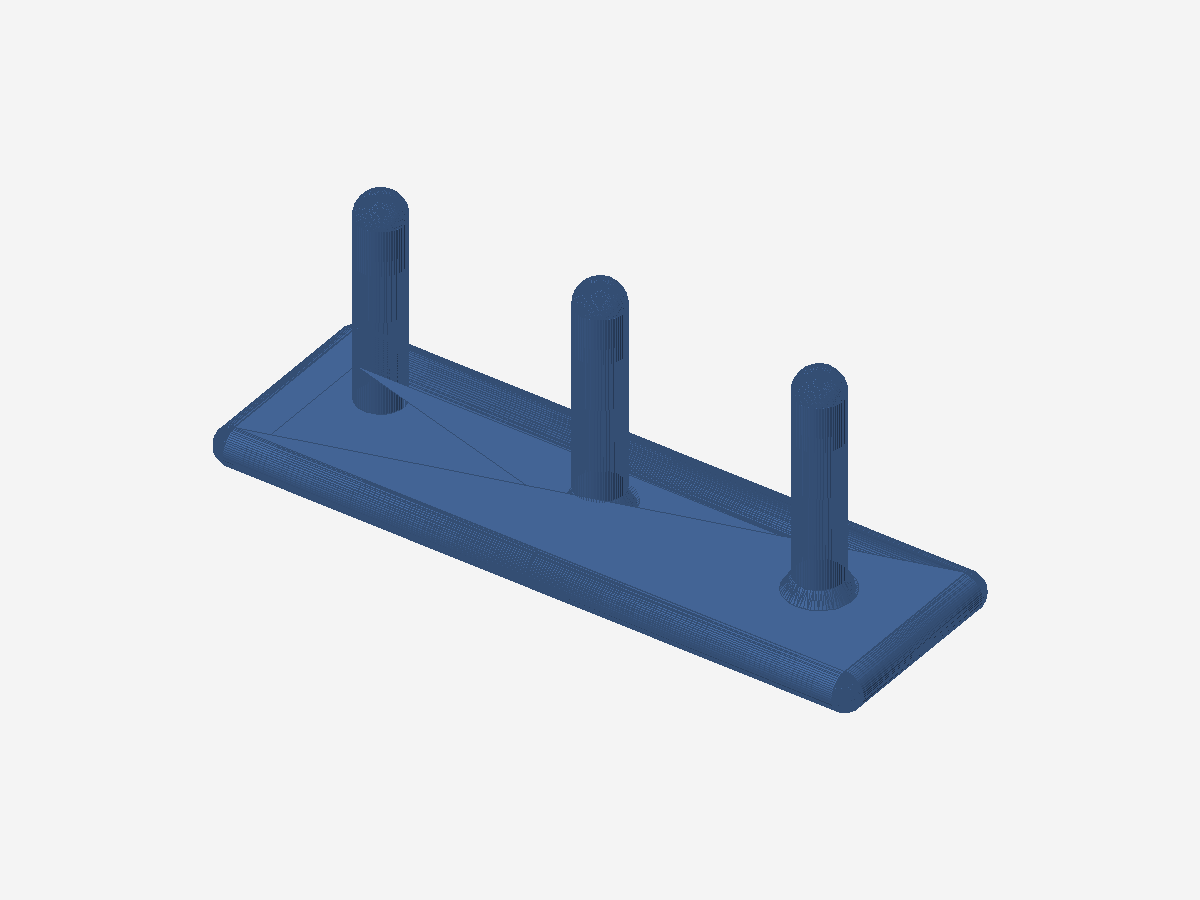
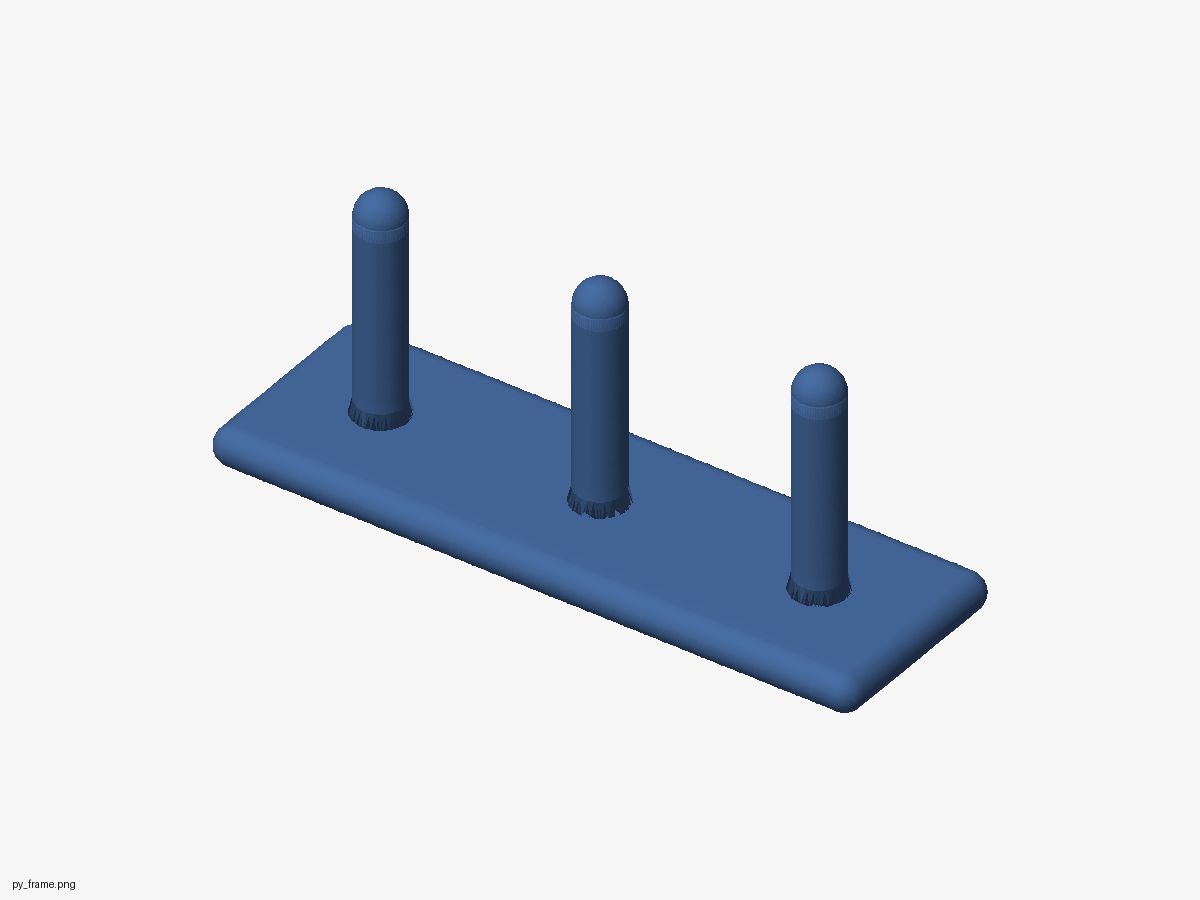
渲染器升级:顶点法线平滑+大三角自适应细分修复画家排序、去逐三角描线、烧录文件名标签(磁盘级自证)

Changed region(s): [[0.1542, 0.1867, 0.8325, 0.8089], [0.0308, 0.9644, 0.0617, 0.9956]]

diff --git a/stl_render.py b/stl_render.py
@@ -1,9 +1,10 @@
-"""Render an STL to PNG with PIL: painter's algorithm, Lambert shading.
+"""Render an STL to PNG with PIL: painter's algorithm, smooth vertex normals.
 
 Usage:
     python stl_render.py input.stl output.png [width] [height]
 
-Camera: 3/4 view (yaw 35deg, pitch 55deg), auto-fit, light gray background.
+Camera: 3/4 view (yaw 35deg, pitch 55deg), auto-fit, Lambert shading with
+vertex-normal smoothing (no per-triangle outlines).
 """
 import math
 import struct
@@ -33,14 +34,76 @@ def load_tris(path):
     return tris
 
 
+def face_normal(a, b, c):
+    ux, uy, uz = b[0] - a[0], b[1] - a[1], b[2] - a[2]
+    wx, wy, wz = c[0] - a[0], c[1] - a[1], c[2] - a[2]
+    nx = uy * wz - uz * wy
+    ny = uz * wx - ux * wz
+    nz = ux * wy - uy * wx
+    ln = math.sqrt(nx * nx + ny * ny + nz * nz)
+    if ln < 1e-12:
+        return (0.0, 0.0, 1.0)
+    return (nx / ln, ny / ln, nz / ln)
+
+
+def subdivide(tris, max_edge):
+    """Split long triangles so painter-sort by centroid stays coherent."""
+    out = []
+    stack = list(tris)
+    max_sq = max_edge * max_edge
+    while stack:
+        a, b, c = stack.pop()
+        # longest edge
+        e = [(a, b, c), (b, c, a), (c, a, b)]
+        best = 0
+        best_len = -1.0
+        for i, (p, q, r) in enumerate(e):
+            d = (p[0] - q[0]) ** 2 + (p[1] - q[1]) ** 2 + (p[2] - q[2]) ** 2
+            if d > best_len:
+                best_len = d
+                best = i
+        if best_len <= max_sq:
+            out.append((a, b, c))
+            continue
+        p, q, r = e[best]
+        m = ((p[0] + q[0]) / 2, (p[1] + q[1]) / 2, (p[2] + q[2]) / 2)
+        stack.append((p, m, r))
+        stack.append((m, q, r))
+    return out
+
+
+def smooth_vertex_normals(tris):
+    acc = {}
+    key_of = []
+    for t in tris:
+        n = face_normal(*t)
+        keys = []
+        for p in t:
+            k = (round(p[0], 4), round(p[1], 4), round(p[2], 4))
+            keys.append(k)
+            cur = acc.get(k, (0.0, 0.0, 0.0))
+            acc[k] = (cur[0] + n[0], cur[1] + n[1], cur[2] + n[2])
+        key_of.append(keys)
+    norm = {}
+    for k, v in acc.items():
+        ln = math.sqrt(v[0] ** 2 + v[1] ** 2 + v[2] ** 2)
+        norm[k] = (v[0] / ln, v[1] / ln, v[2] / ln) if ln > 1e-12 else (0.0, 0.0, 1.0)
+    out = []
+    for i, keys in enumerate(key_of):
+        a, b, c = (norm[k] for k in keys)
+        sm = (a[0] + b[0] + c[0], a[1] + b[1] + c[1], a[2] + b[2] + c[2])
+        ln = math.sqrt(sm[0] ** 2 + sm[1] ** 2 + sm[2] ** 2)
+        sm = (sm[0] / ln, sm[1] / ln, sm[2] / ln) if ln > 1e-12 else (0.0, 0.0, 1.0)
+        out.append(sm)
+    return out
+
+
 def rot_view(v, cy, sy, cp, sp):
-    # yaw about Z then pitch about X
     x, y, z = v
     x1 = x * cy - y * sy
     y1 = x * sy + y * cy
-    z1 = z
-    y2 = y1 * cp - z1 * sp
-    z2 = y1 * sp + z1 * cp
+    y2 = y1 * cp - z * sp
+    z2 = y1 * sp + z * cp
     return (x1, y2, z2)
 
 
@@ -51,10 +114,16 @@ def render(stl_path, out_path, W=1200, H=900):
     cy, sy = math.cos(yaw), math.sin(yaw)
     cp, sp = math.cos(pitch), math.sin(pitch)
 
-    view = []
-    for t in tris:
-        v = [rot_view(p, cy, sy, cp, sp) for p in t]
-        view.append(v)
+    # bbox first to size the subdivision threshold
+    xs = [p[0] for t in tris for p in t]
+    ys = [p[1] for t in tris for p in t]
+    span = max(max(xs) - min(xs), max(ys) - min(ys)) or 1
+    tris = subdivide(tris, span / 30.0)
+
+    view = [[rot_view(p, cy, sy, cp, sp) for p in t] for t in tris]
+    vnorm_raw = smooth_vertex_normals(tris)
+    vnorm = [rot_view(n, cy, sy, cp, sp) for n in vnorm_raw]
+
     xs = [p[0] for v in view for p in v]
     ys = [p[1] for v in view for p in v]
     minx, maxx = min(xs), max(xs)
@@ -67,10 +136,9 @@ def render(stl_path, out_path, W=1200, H=900):
     def to_px(p):
         return ((p[0] - cx) * s + W / 2, (p[1] - cyy) * s + H / 2)
 
-    # depth = view z (larger = closer to camera after pitch transform)
     order = sorted(range(len(view)), key=lambda i: sum(p[2] for p in view[i]) / 3)
 
-    img = Image.new("RGB", (W, H), (244, 244, 244))
+    img = Image.new("RGB", (W, H), (246, 246, 246))
     draw = ImageDraw.Draw(img)
     lx, ly, lz = -0.35, -0.45, 0.82
     ll = math.sqrt(lx * lx + ly * ly + lz * lz)
@@ -78,26 +146,17 @@ def render(stl_path, out_path, W=1200, H=900):
 
     for i in order:
         v = view[i]
-        (x1, y1, z1), (x2, y2, z2), (x3, y3, z3) = v
-        ux, uy, uz = x2 - x1, y2 - y1, z2 - z1
-        wx, wy, wz = x3 - x1, y3 - y1, z3 - z1
-        nx = uy * wz - uz * wy
-        ny = uz * wx - ux * wz
-        nz = ux * wy - uy * wx
-        nl = math.sqrt(nx * nx + ny * ny + nz * nz)
-        if nl > 1e-12:
-            nx, ny, nz = nx / nl, ny / nl, nz / nl
-        else:
-            nx, ny, nz = 0, 0, 1
-        # face camera if backfacing
+        nx, ny, nz = vnorm[i]
         if nz < 0:
             nx, ny, nz = -nx, -ny, -nz
         lam = max(0.0, nx * lx + ny * ly + nz * lz)
-        shade = 0.42 + 0.58 * lam
-        base = (74, 111, 165)  # steel blue
+        shade = 0.40 + 0.60 * lam
+        base = (74, 111, 165)
         col = tuple(min(255, int(c * shade)) for c in base)
-        pts = [to_px(p) for p in v]
-        draw.polygon(pts, fill=col, outline=(52, 78, 115))
+        draw.polygon([to_px(p) for p in v], fill=col)
+    # self-identifying label burned into pixels (anti cache/swap confusion)
+    label = out_path.split("\\")[-1].split("/")[-1]
+    draw.text((12, H - 22), label, fill=(20, 20, 20))
     img.save(out_path)
     print("%s  tris=%d" % (out_path, len(tris)))
 
